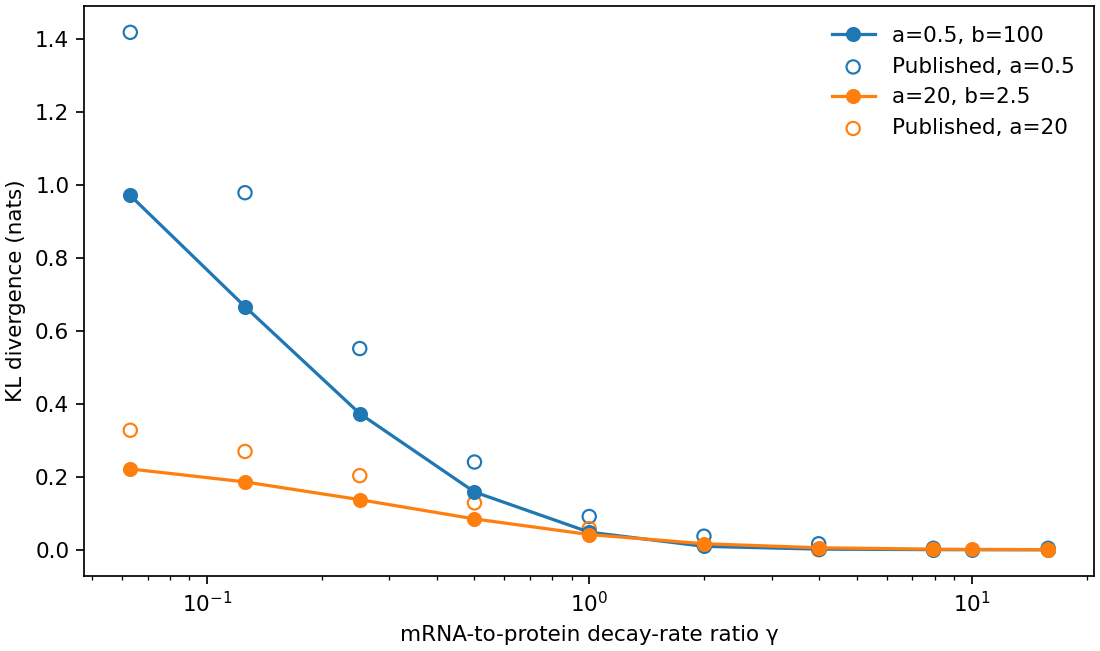
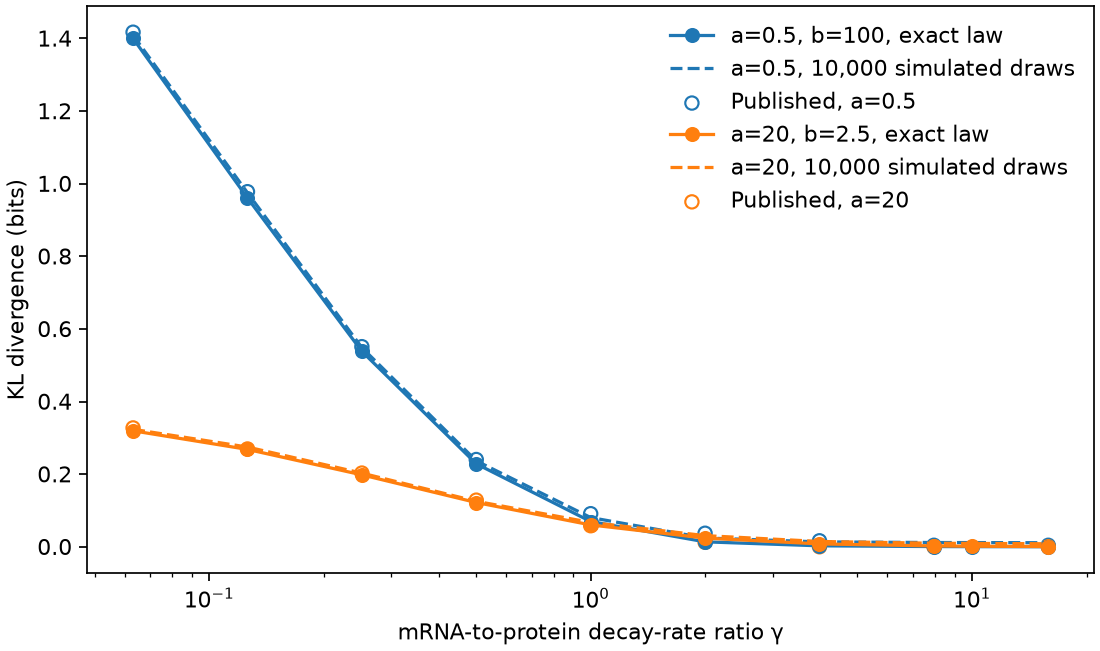
Plot Figure 1D in bits and report mass beyond the plotted axis
The published Figure 1D values are 1.45-1.52 times the reconstruction in nats at every point above 0.1 and agree within the reading error in bits, so the comparison figure now shows bits, the 10,000-draw estimate and the digitized markers. The Figure 1B-C legend states the probability above 150 copies (4.9-8.3% in the broad regime). The manifest no longer claims a protein decay rate of 0.0005/s, which the paper does not give.

Claude-Session: https://claude.ai/code/session_01Sh6qH1Noyv64tC6dGfSU2Q

diff --git a/examples/two_stage_expression/study.py b/examples/two_stage_expression/study.py
@@ -191,7 +191,9 @@ def plot(output, folder):
     matplotlib.use("Agg")
     import matplotlib.pyplot as plt
 
-    hist = pd.read_csv(output / "histograms.csv").query("count <= 150")
+    full = pd.read_csv(output / "histograms.csv")
+    above = full[full["count"] == 151].set_index(["a", "gamma"]).reaction_pmf
+    hist = full.query("count <= 150")
     divergence = pd.read_csv(output / "divergence.csv").sort_values("gamma")
     folder.mkdir(parents=True, exist_ok=True)
     fig, axes = plt.subplots(1, 2, figsize=(9.2, 4.0), layout="constrained")
@@ -199,14 +201,18 @@ def plot(output, folder):
         axes, hist.groupby(["a", "b"], sort=False), strict=True
     ):
         for gamma, s in group.groupby("gamma"):
-            ax.plot(s["count"], s.reaction_pmf, label=f"Reaction law, γ={gamma:g}")
+            ax.plot(
+                s["count"],
+                s.reaction_pmf,
+                label=f"Reaction law, γ={gamma:g}, {above[a, gamma]:.1%} above 150",
+            )
             ax.scatter(s["count"].iloc[::5], s.ssa.iloc[::5], s=5, alpha=0.55)
         ax.plot(
             s["count"],
             s.negative_binomial,
             color="0.35",
             linestyle="--",
-            label="Negative binomial",
+            label=f"Negative binomial, {1 - s.negative_binomial.sum():.1%} above 150",
         )
         ax.set(
             title=f"a={a:g}, b={b:g}, mean 50",
@@ -218,10 +224,22 @@ def plot(output, folder):
     plt.close(fig)
     fig, ax = plt.subplots(figsize=(7.1, 4.2), layout="constrained")
     archive = pd.read_csv(ROOT / "reference-figure1d.csv")
+    sampled = pd.read_csv(output / "review-figure1d-conventions.csv")
     for (a, b), series in divergence.groupby(["a", "b"]):
-        line = ax.plot(series.gamma, series.kl, marker="o", label=f"a={a:g}, b={b:g}")[
-            0
-        ]
+        line = ax.plot(
+            series.gamma,
+            series.kl / np.log(2),
+            marker="o",
+            label=f"a={a:g}, b={b:g}, exact law",
+        )[0]
+        draws = sampled[sampled.a == a]
+        ax.plot(
+            draws.gamma,
+            draws.bits_sampled_10000_mean,
+            linestyle="--",
+            color=line.get_color(),
+            label=f"a={a:g}, 10,000 simulated draws",
+        )
         values = archive[(archive.a == a) & (archive.b == b)]
         ax.scatter(
             values.gamma,
@@ -234,7 +252,7 @@ def plot(output, folder):
     ax.set(
         xscale="log",
         xlabel="mRNA-to-protein decay-rate ratio γ",
-        ylabel="KL divergence (nats)",
+        ylabel="KL divergence (bits)",
     )
     ax.legend(frameon=False)
     fig.savefig(folder / "divergence.png", dpi=155)

diff --git a/examples/two_stage_expression/README.md b/examples/two_stage_expression/README.md
@@ -6,8 +6,17 @@ reactions and the limit yielding a negative-binomial protein count.
 ```sh
 python examples/two_stage_expression/study.py --size quick
 python examples/two_stage_expression/study.py --size full --threads 4
+python examples/two_stage_expression/review.py
 python examples/two_stage_expression/study.py --figures docs/guide/img/two_stage_expression
 ```
+
+`review.py` solves the truncated joint master equation for its
+stationary vector, independently of the generating function, and writes
+`results/review-stationary-check.csv`. It also recomputes the Figure 1D
+divergence under each open convention and writes
+`results/review-figure1d-conventions.csv`. The guide page's tables are
+rendered from the result files by `tables.py`, and the chapter check
+compares them.
 
 The stationary sweeps use a generating function by integrating over
 the times of mRNA arrivals and their exponential lifetimes. It gives
@@ -20,11 +29,12 @@ bounded lattice. The stationary table uses the marginal generating
 function because the larger joint projection exceeds the native work
 limit. All four Figure 1B–C histograms have independent native samples.
 
-Figure 1D's method description leaves the direction and tail handling
-of the KL divergence open. This example reports reaction law relative
-to the negative-binomial law, grouping counts above 150. Results include
-both this KL divergence and total variation. Open markers in the plot
-come from the digitized paper. The decay-rate sweep reproduces the
-decrease in approximation error. The ordinates differ most in the
-broad-burst case at the smallest decay-rate ratios.
+Figure 1D's method description leaves the direction, binning, tail
+handling and unit of the KL divergence open. This example reports the
+reaction law relative to the negative-binomial law, grouping counts above
+150. `divergence.csv` stores it in nats together with total variation;
+the figure shows it in bits. In bits the published values agree within
+the figure's reading error; in nats they are about 1.47 times larger. The
+figure image was not available to the review, so an axis-calibration
+error in `digitize.py` is not ruled out.
 [Paper](https://doi.org/10.1073/pnas.0803850105)
